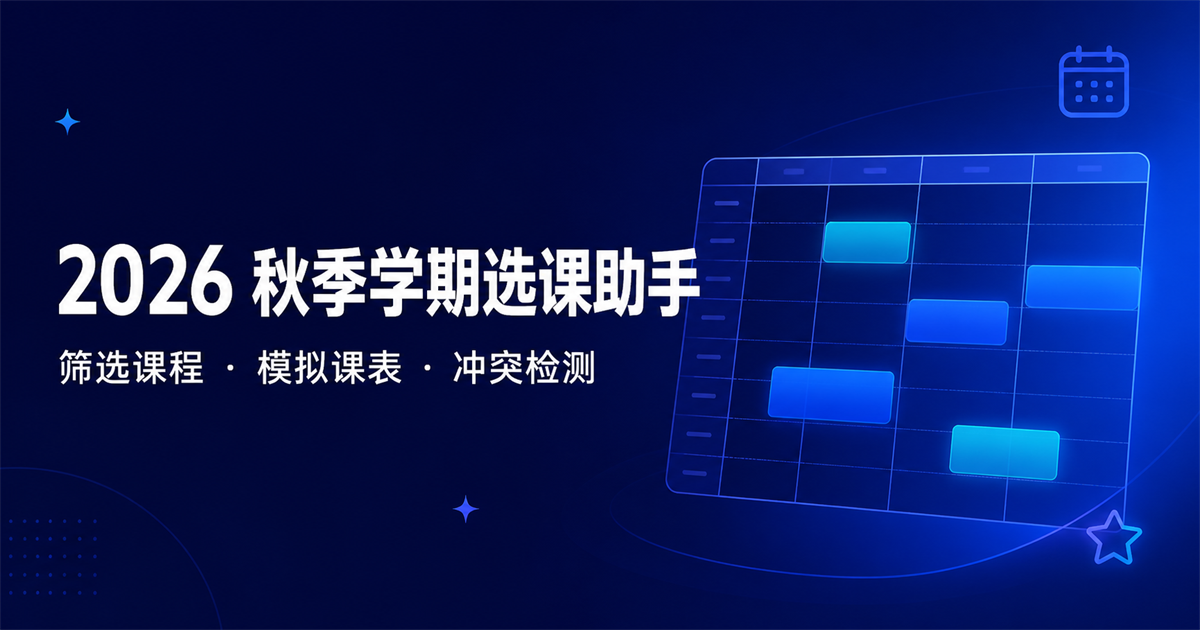
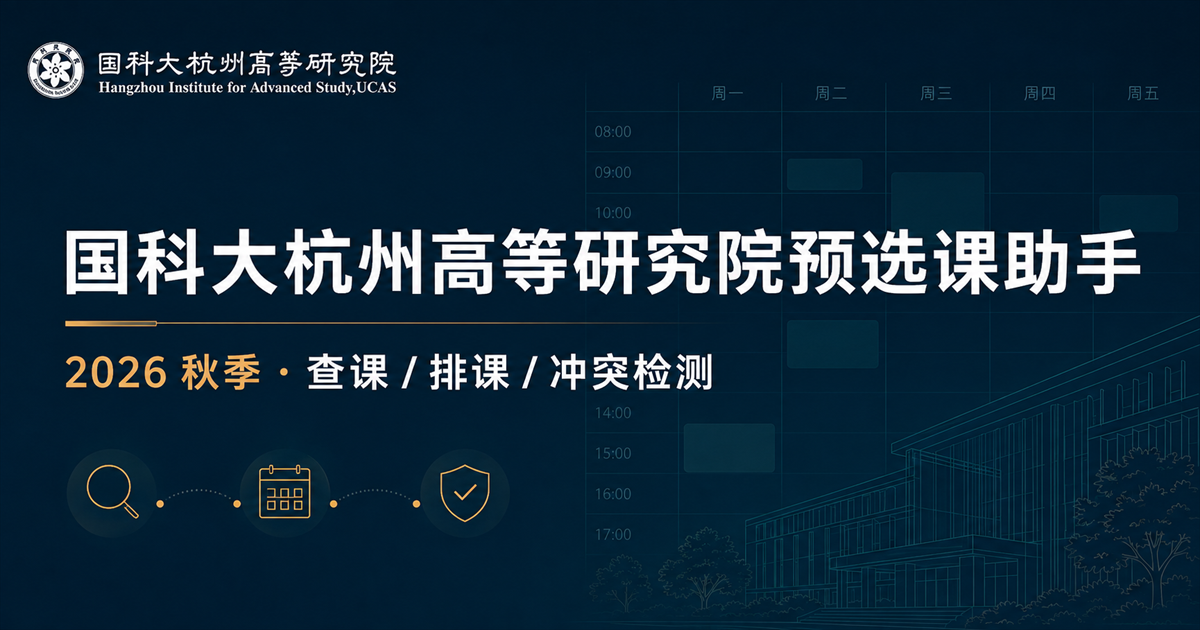
Brand course planner for HIAS

diff --git a/app/course-explorer.tsx b/app/course-explorer.tsx
@@ -647,16 +647,25 @@ export default function CourseExplorer({
           <div className="hero-doodle hero-doodle-one" />
           <div className="hero-doodle hero-doodle-two" />
           <div className="relative z-10 grid gap-7 lg:grid-cols-[minmax(0,1fr)_340px] lg:items-stretch">
-            <div>
-              <p className="mb-4 inline-flex rounded-full border border-[#b9d9cf] bg-white/70 px-3 py-1.5 text-xs font-semibold uppercase tracking-[0.18em] text-[#39766c]">
-                2026 FALL · UCAS
-              </p>
-              <h1 className="max-w-3xl text-3xl font-bold leading-tight tracking-[-0.03em] text-[#1f3732] sm:text-[2.65rem]">
-                把 {initialCourses.length} 门课，排成属于你的这一周
-              </h1>
-              <p className="mt-4 max-w-2xl text-sm leading-6 text-[#60736e] sm:text-base">
-                从培养要求、考试方式到每周时段，把选课信息摊开来看。收藏备选课程，系统会帮你检查时间冲突。
-              </p>
+	            <div>
+	              <div className="brand-lockup">
+	                <img
+	                  alt="国科大杭州高等研究院 Hangzhou Institute for Advanced Study, UCAS"
+	                  height="62"
+	                  src="/hias-logo-white.png"
+	                  width="450"
+	                />
+	                <span>研究生预选课辅助工具</span>
+	              </div>
+	              <p className="mb-4 inline-flex rounded-full border border-white/20 bg-white/10 px-3 py-1.5 text-xs font-semibold uppercase tracking-[0.18em] text-[#dceee8]">
+	                2026 FALL · HANGZHOU
+	              </p>
+	              <h1 className="max-w-3xl text-3xl font-bold leading-tight tracking-[-0.03em] text-white sm:text-[2.65rem]">
+	                杭高院 2026 秋季预选课助手
+	              </h1>
+	              <p className="mt-4 max-w-2xl text-sm leading-6 text-[#d8e6e2] sm:text-base">
+	                面向国科大杭州高等研究院研究生，集中查看课程、培养要求与考试方式，把 {initialCourses.length} 门课排成真正适合你的这一周。
+	              </p>
               <div className="hero-meta mt-7">
                 <span><FileSpreadsheet /> 秋季课表数据</span>
                 <span><BookOpen /> {initialCourses.length} 门课程</span>
@@ -667,7 +676,7 @@ export default function CourseExplorer({
             </div>
             <aside className="plan-summary">
               <div>
-                <p>MY COURSE PLAN</p>
+	                <p>MY PRESELECTION</p>
                 <div className="credit-spotlight mt-3">
                   <div className="flex items-end gap-2">
                     <strong>{formatCredits(selectedCredits)}</strong>
@@ -1356,7 +1365,7 @@ export default function CourseExplorer({
         )}
 
         <footer className="mb-4 mt-2 flex flex-col gap-2 border-t border-slate-200 py-5 text-xs leading-5 text-slate-500 sm:flex-row sm:items-center sm:justify-between">
-          <span>数据来源：秋季学期课表 Excel 与物光学院课程设置 PPT</span>
+	          <span>国科大杭州高等研究院 · 2026 秋季预选课辅助工具</span>
           <span>本工具仅用于选课规划，最终安排以学校通知为准。</span>
         </footer>
       </div>

diff --git a/app/globals.css b/app/globals.css
@@ -68,9 +68,9 @@ body {
   margin: 0;
   min-height: 100vh;
   background:
-    radial-gradient(circle at 10% 2%, rgba(203, 232, 220, 0.58), transparent 27rem),
-    radial-gradient(circle at 92% 16%, rgba(255, 224, 195, 0.42), transparent 25rem),
-    #f7f7f2;
+    radial-gradient(circle at 10% 2%, rgba(184, 218, 218, 0.52), transparent 27rem),
+    radial-gradient(circle at 92% 16%, rgba(247, 207, 155, 0.36), transparent 25rem),
+    #f5f7f6;
   color: var(--foreground);
   font-family: var(--font-sans);
 }
@@ -87,8 +87,32 @@ button {
 
 .hero-panel {
   background:
-    linear-gradient(125deg, rgba(239, 249, 244, 0.98), rgba(255, 250, 239, 0.96) 58%, rgba(244, 239, 255, 0.92)),
-    #f4f8f3;
+    radial-gradient(circle at 88% 5%, rgba(38, 136, 142, 0.38), transparent 23rem),
+    linear-gradient(125deg, #123f6b 0%, #164e68 44%, #145f60 100%);
+  border-color: rgba(255, 255, 255, 0.16) !important;
+}
+
+.brand-lockup {
+  display: flex;
+  align-items: center;
+  gap: 1rem;
+  margin-bottom: 1.25rem;
+}
+
+.brand-lockup img {
+  display: block;
+  width: min(450px, 100%);
+  height: auto;
+}
+
+.brand-lockup span {
+  flex: 0 0 auto;
+  border-left: 1px solid rgba(255, 255, 255, 0.3);
+  padding-left: 1rem;
+  color: rgba(255, 255, 255, 0.78);
+  font-size: 0.72rem;
+  font-weight: 650;
+  letter-spacing: 0.08em;
 }
 
 .hero-doodle {
@@ -101,7 +125,7 @@ button {
   right: 22%;
   width: 210px;
   height: 210px;
-  border: 34px solid rgba(104, 170, 151, 0.09);
+  border: 34px solid rgba(255, 255, 255, 0.07);
   border-radius: 45% 55% 60% 40%;
   transform: rotate(18deg);
 }
@@ -112,7 +136,7 @@ button {
   width: 170px;
   height: 150px;
   border-radius: 38% 62% 44% 56%;
-  background: rgba(244, 174, 119, 0.09);
+  background: rgba(247, 177, 87, 0.13);
   transform: rotate(-12deg);
 }
 
@@ -127,9 +151,10 @@ button {
   align-items: center;
   gap: 0.4rem;
   border-radius: 999px;
-  background: rgba(255, 255, 255, 0.72);
+  border: 1px solid rgba(255, 255, 255, 0.12);
+  background: rgba(255, 255, 255, 0.09);
   padding: 0.48rem 0.72rem;
-  color: #57706a;
+  color: #e1eeeb;
   font-size: 0.75rem;
   font-weight: 600;
   box-shadow: 0 4px 14px rgba(61, 83, 72, 0.05);
@@ -137,7 +162,7 @@ button {
 
 .hero-meta svg {
   width: 0.9rem;
-  color: #4d8d7f;
+  color: #f3bd72;
 }
 
 .plan-summary {
@@ -147,7 +172,7 @@ button {
   justify-content: space-between;
   border: 1px solid rgba(255, 255, 255, 0.92);
   border-radius: 22px;
-  background: rgba(255, 255, 255, 0.72);
+  background: rgba(255, 255, 255, 0.94);
   padding: 1.3rem;
   box-shadow: 0 16px 38px rgba(76, 101, 91, 0.1);
   backdrop-filter: blur(12px);
@@ -1229,6 +1254,22 @@ button {
 @media (max-width: 640px) {
   .hero-panel {
     border-radius: 22px;
+  }
+
+  .brand-lockup {
+    align-items: flex-start;
+    flex-direction: column;
+    gap: 0.6rem;
+  }
+
+  .brand-lockup img {
+    width: min(360px, 100%);
+  }
+
+  .brand-lockup span {
+    border-left: 0;
+    padding-left: 0;
+    font-size: 0.65rem;
   }
 
   .plan-summary {

diff --git a/app/layout.tsx b/app/layout.tsx
@@ -5,25 +5,25 @@ export const metadata: Metadata = {
   metadataBase: new URL(
     'https://ucas-fall-course-assistant.qwepoi147258369.chatgpt.site',
   ),
-  title: '2026 秋季学期选课助手',
-  description: '结合课程 Excel 与物光学院培养方案制作的课程筛选、要求核对、课表模拟与冲突检测工具。',
+  title: '国科大杭州高等研究院 · 2026 秋季预选课助手',
+  description: '面向国科大杭州高等研究院研究生的秋季预选课辅助工具，支持课程筛选、培养方案核对、课表模拟、考试压力分析与冲突检测。',
   openGraph: {
-    title: '2026 秋季学期选课助手',
-    description: '筛选课程、核对培养要求、按周查看课表，并自动识别时间冲突。',
+    title: '国科大杭州高等研究院预选课助手',
+    description: '2026 秋季课程筛选、培养方案核对、按周排课与冲突检测。',
     type: 'website',
     images: [
       {
         url: '/og.png',
         width: 1200,
         height: 630,
-        alt: '2026 秋季学期选课助手',
+        alt: '国科大杭州高等研究院 2026 秋季预选课助手',
       },
     ],
   },
   twitter: {
     card: 'summary_large_image',
-    title: '2026 秋季学期选课助手',
-    description: '筛选课程、核对培养要求、按周查看课表，并自动识别时间冲突。',
+    title: '国科大杭州高等研究院预选课助手',
+    description: '2026 秋季课程筛选、培养方案核对、按周排课与冲突检测。',
     images: ['/og.png'],
   },
 };
